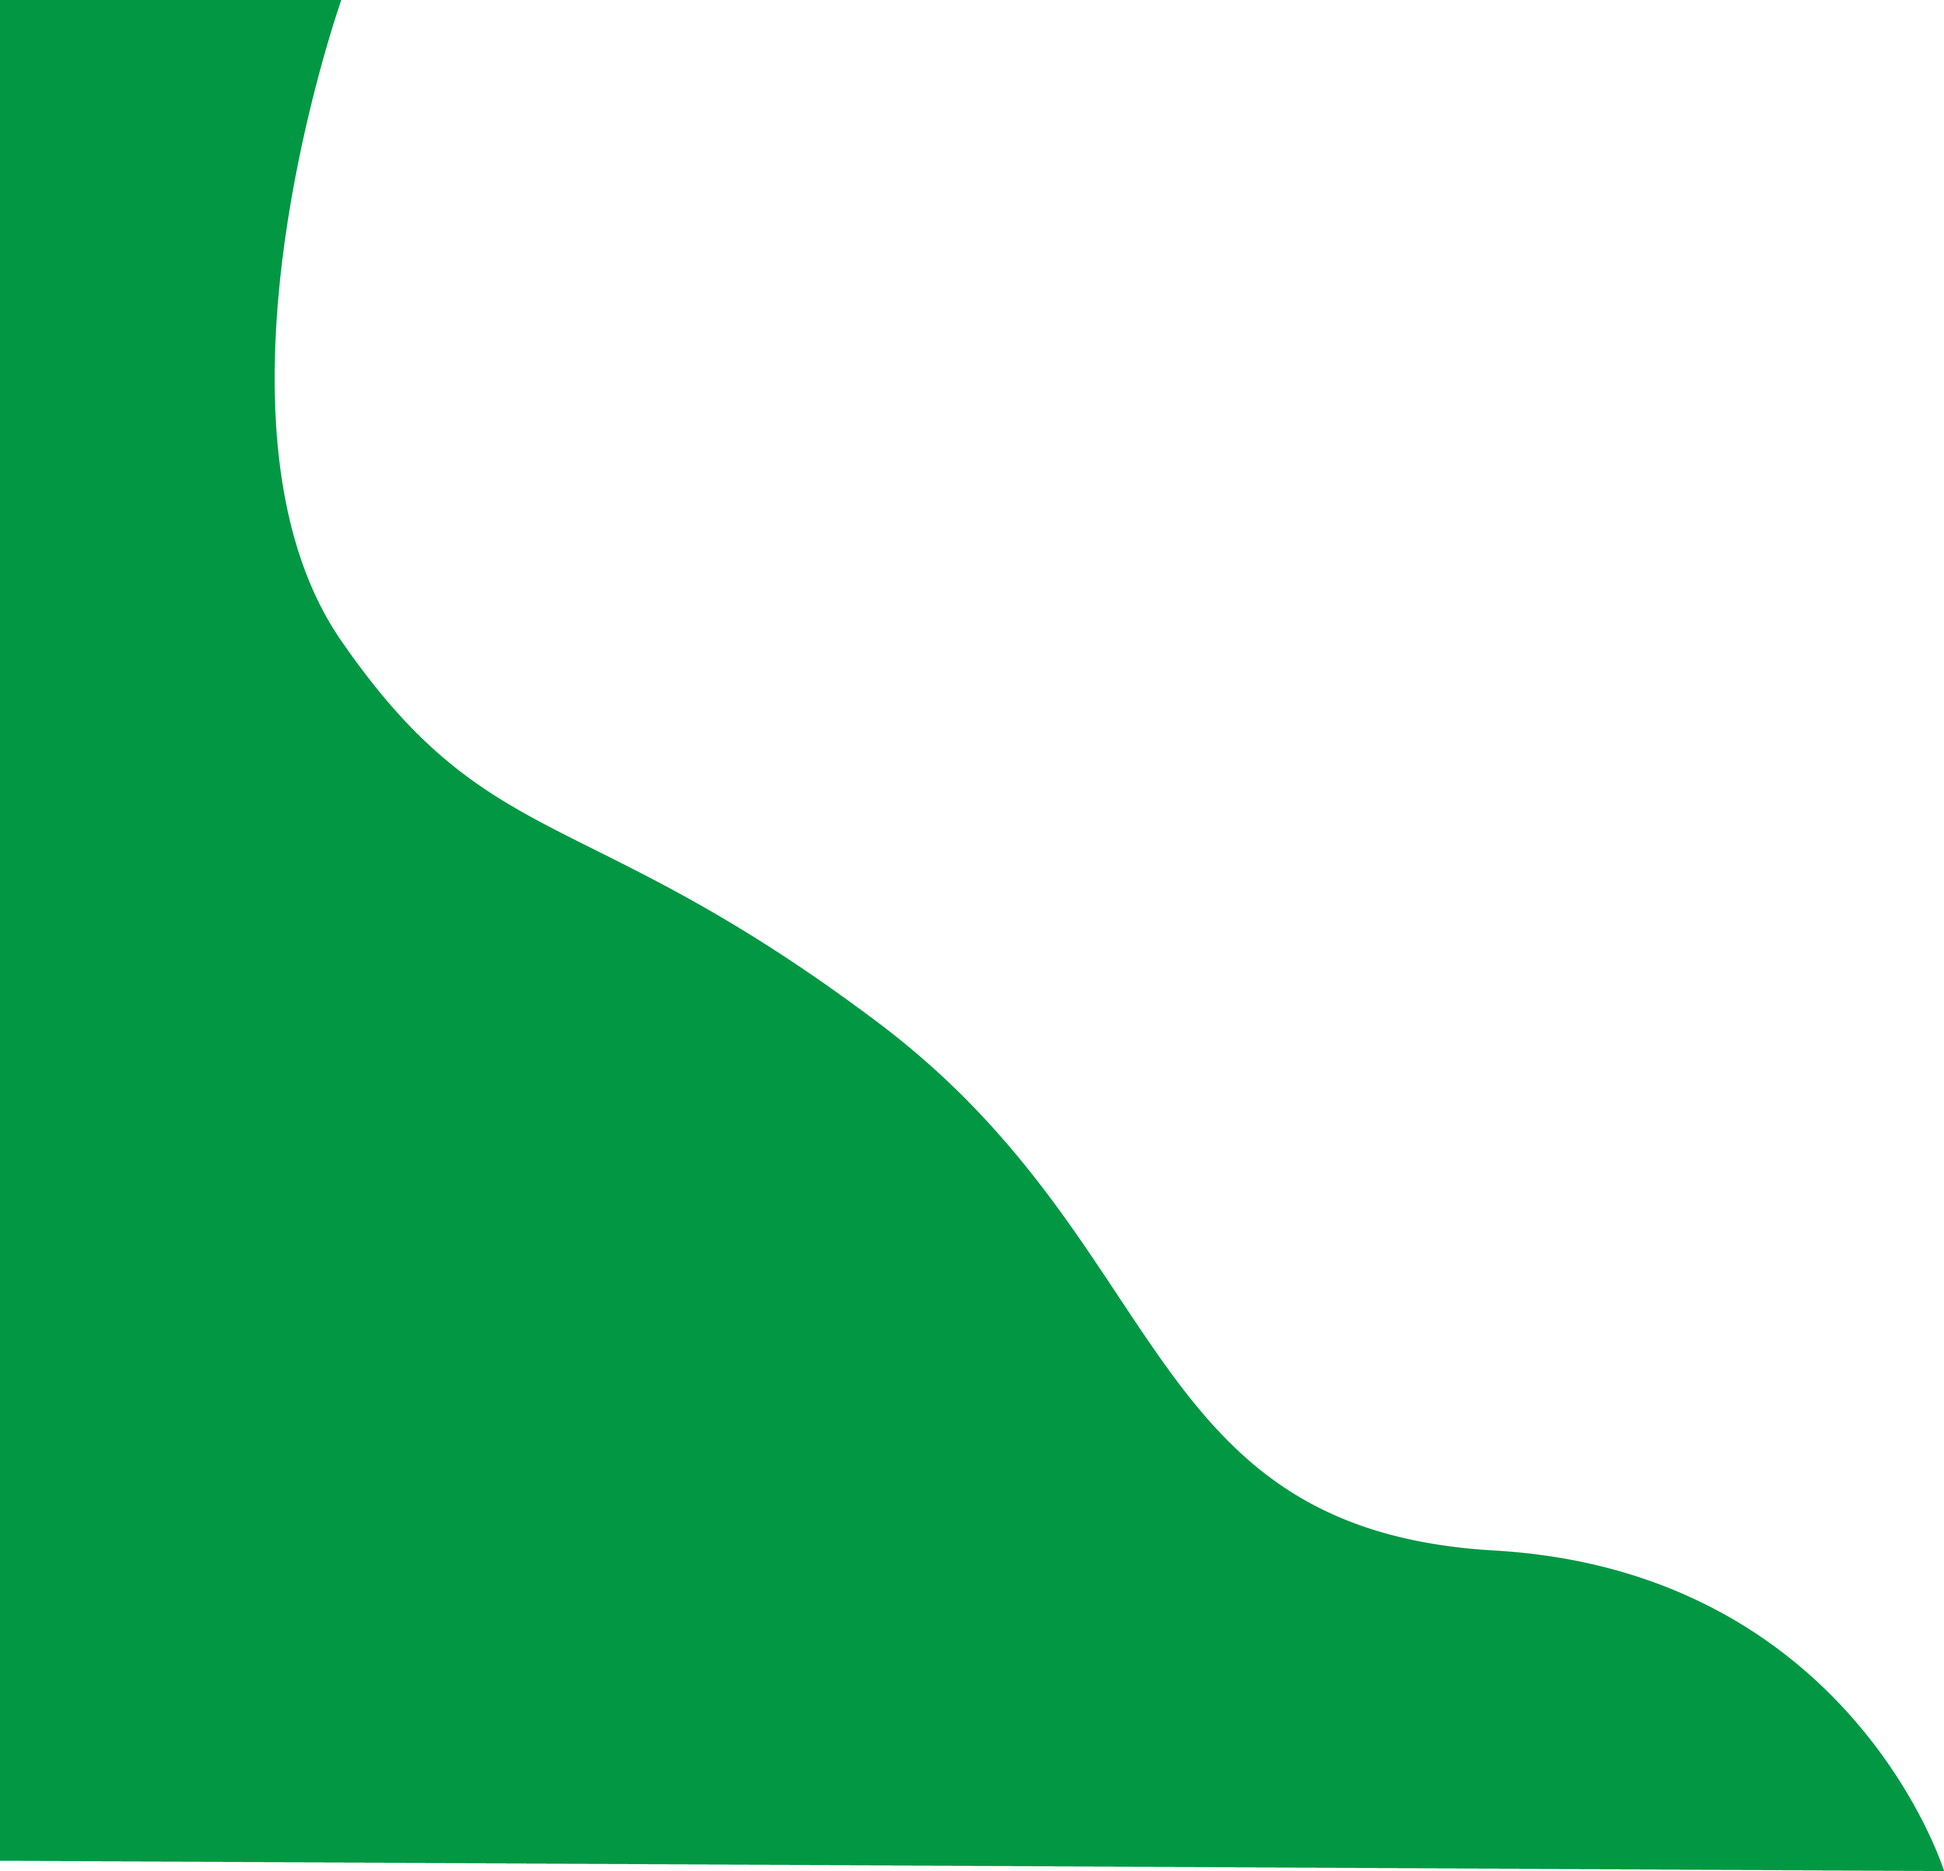
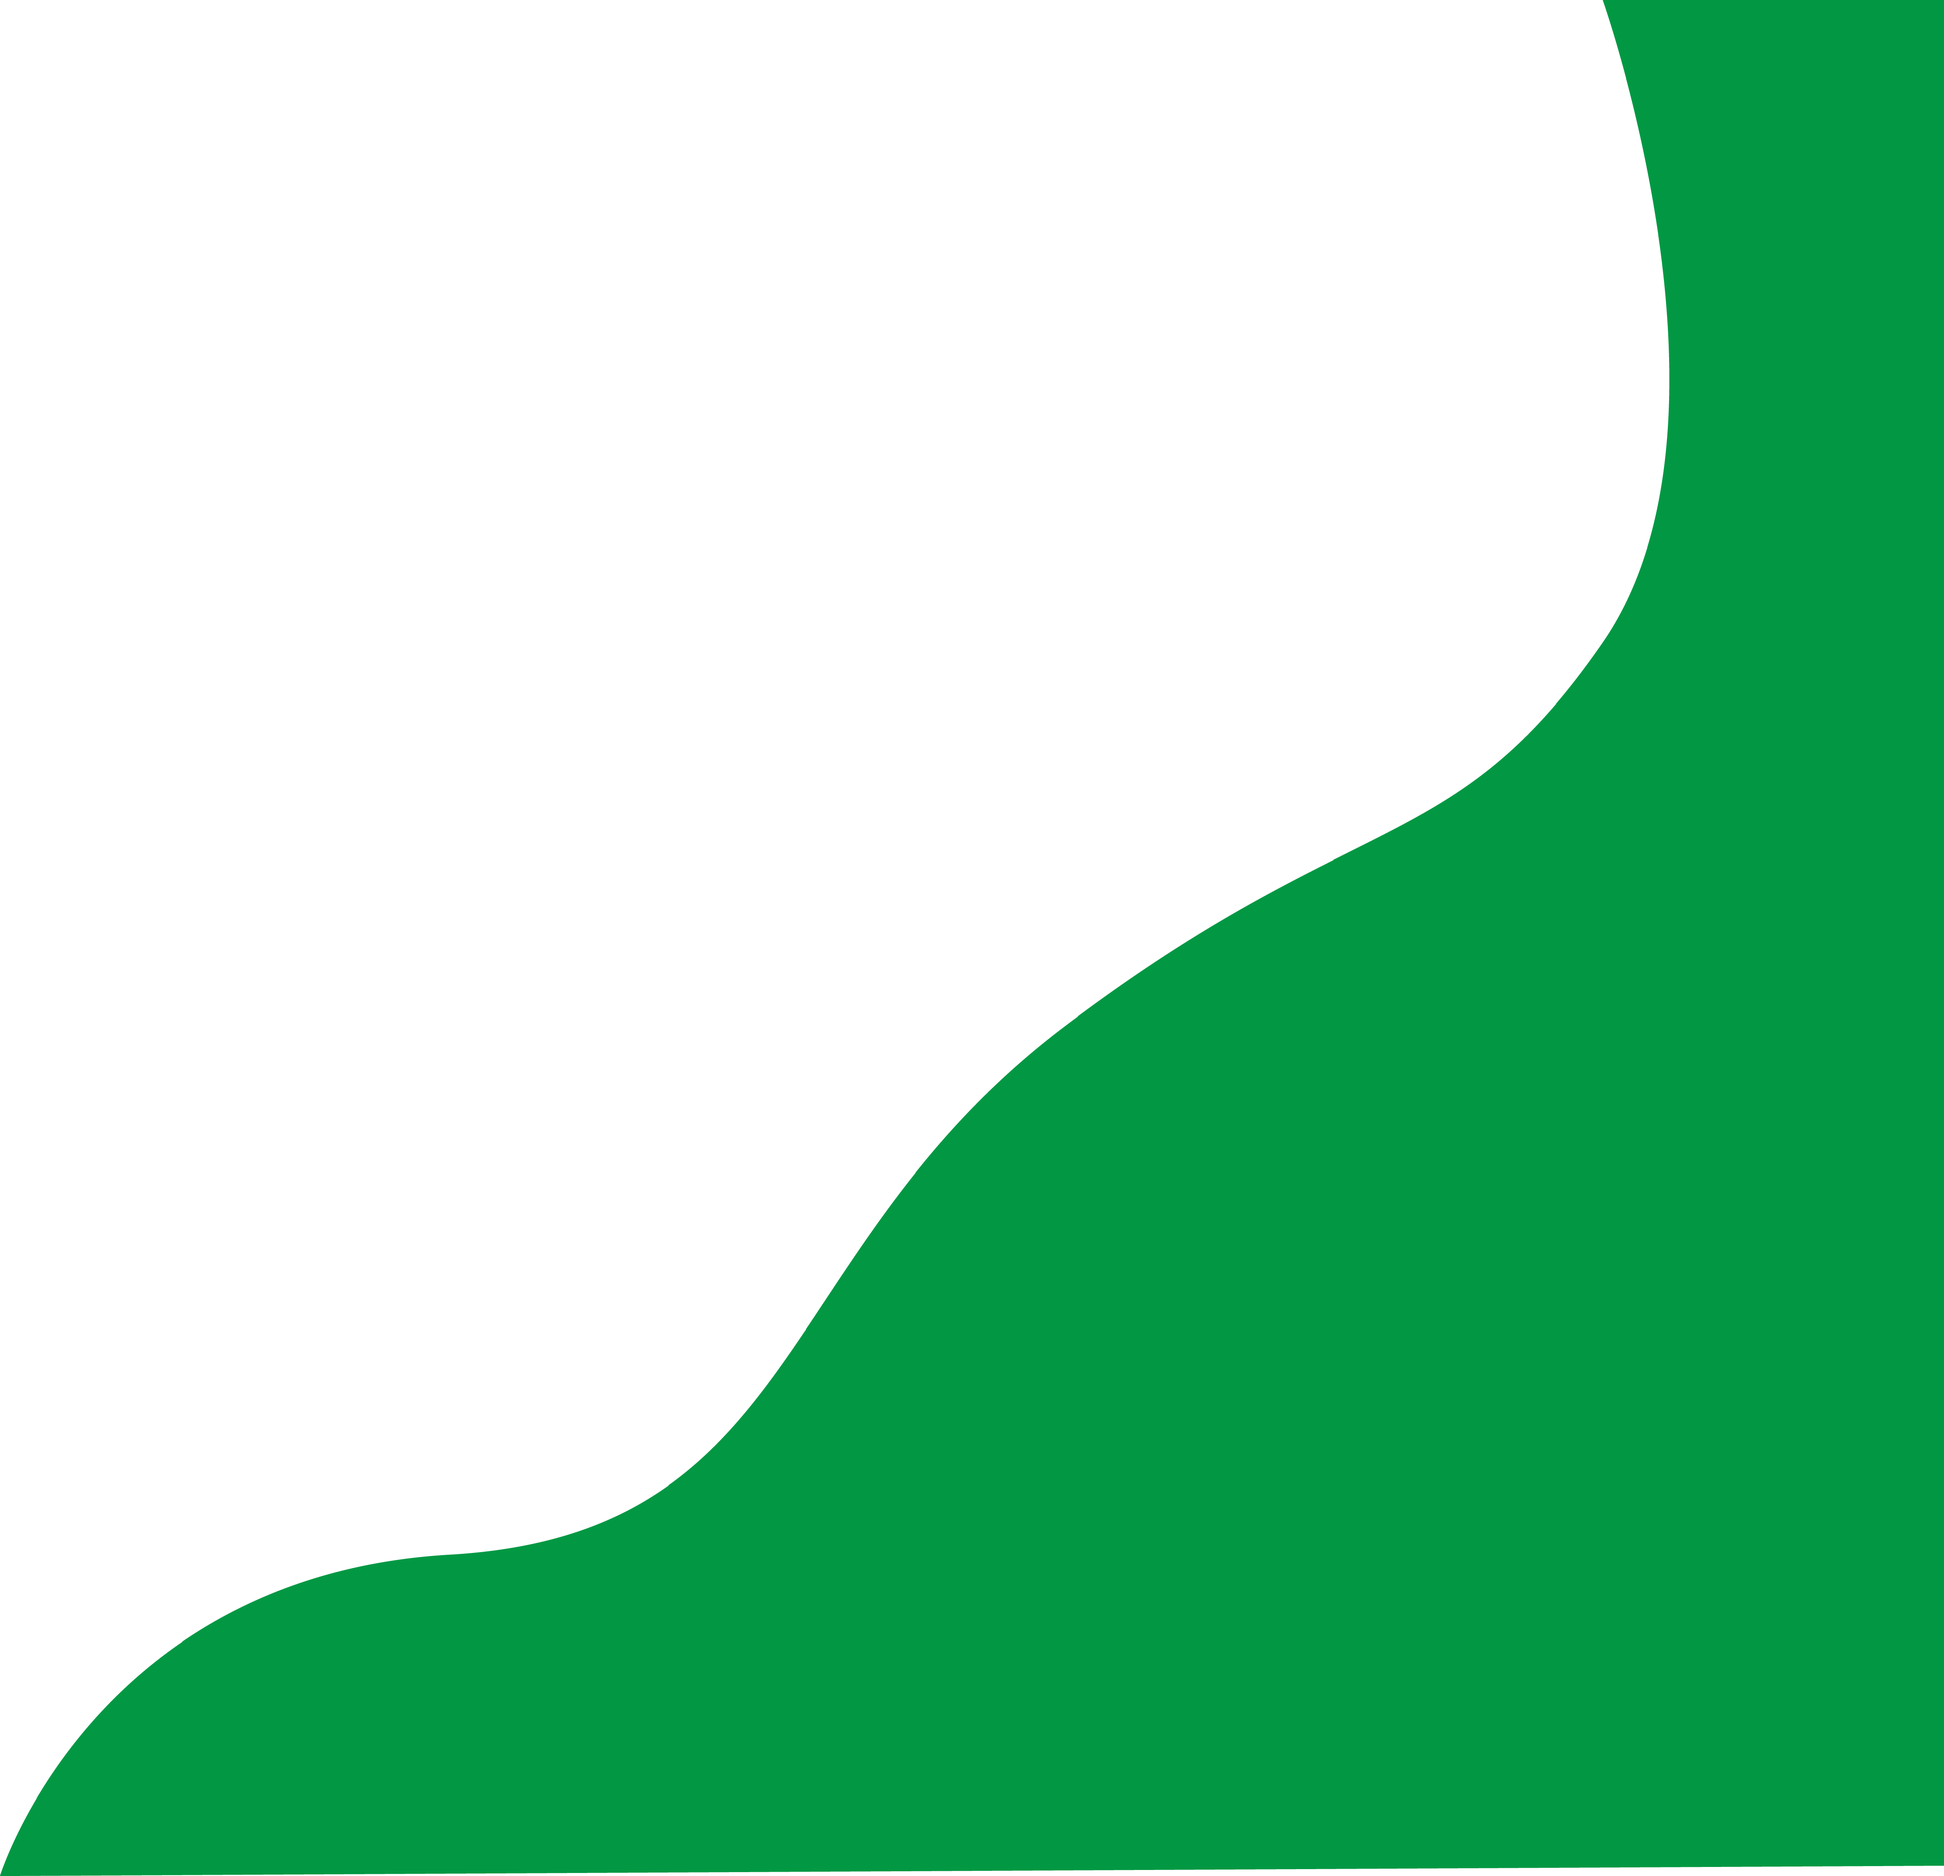
Flip section2 images

diff --git a/hire.html b/hire.html
@@ -318,6 +318,7 @@
           <img class="hire-section-2-img" src="/images/hire5.png" alt="" />
           <div class="container">
             <div class="row text-container">
+              <div class="col-md-6">
               <h1>Hire Geeks from all Fields</h1>
               <p>
                 Lorem ipsum dolor sit amet consectetur adipisicing elit. Veniam
@@ -335,6 +336,7 @@
                 similique distinctio veritatis fuga ab odio aspernatur aliquam
                 eaque et, dolorum excepturi eveniet obcaecati perspiciatis.
               </p>
+              </div>
             </div>
           </div>
         </div>

diff --git a/css/style.css b/css/style.css
@@ -2210,7 +2210,7 @@ iframe {
   height: 100vh;
   background: url(/images/hire-background2.png) no-repeat;
   background-size: 65%;
-  background-position: left top;
+  background-position: right top;
   margin-top: 30px;
 }
 
@@ -2221,7 +2221,7 @@ iframe {
 
 .hire-section-2-img {
   height: 100%;
-  float: left;
+  float: right;
 }
 
 .hire-section-2 .text-container {
